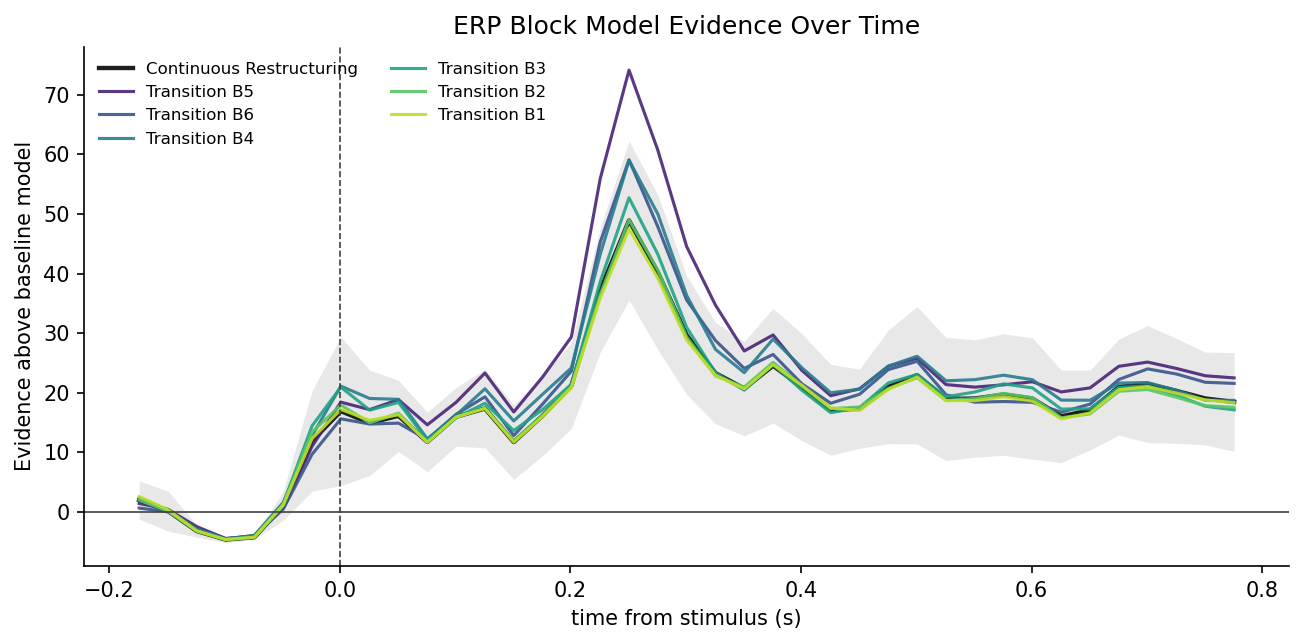
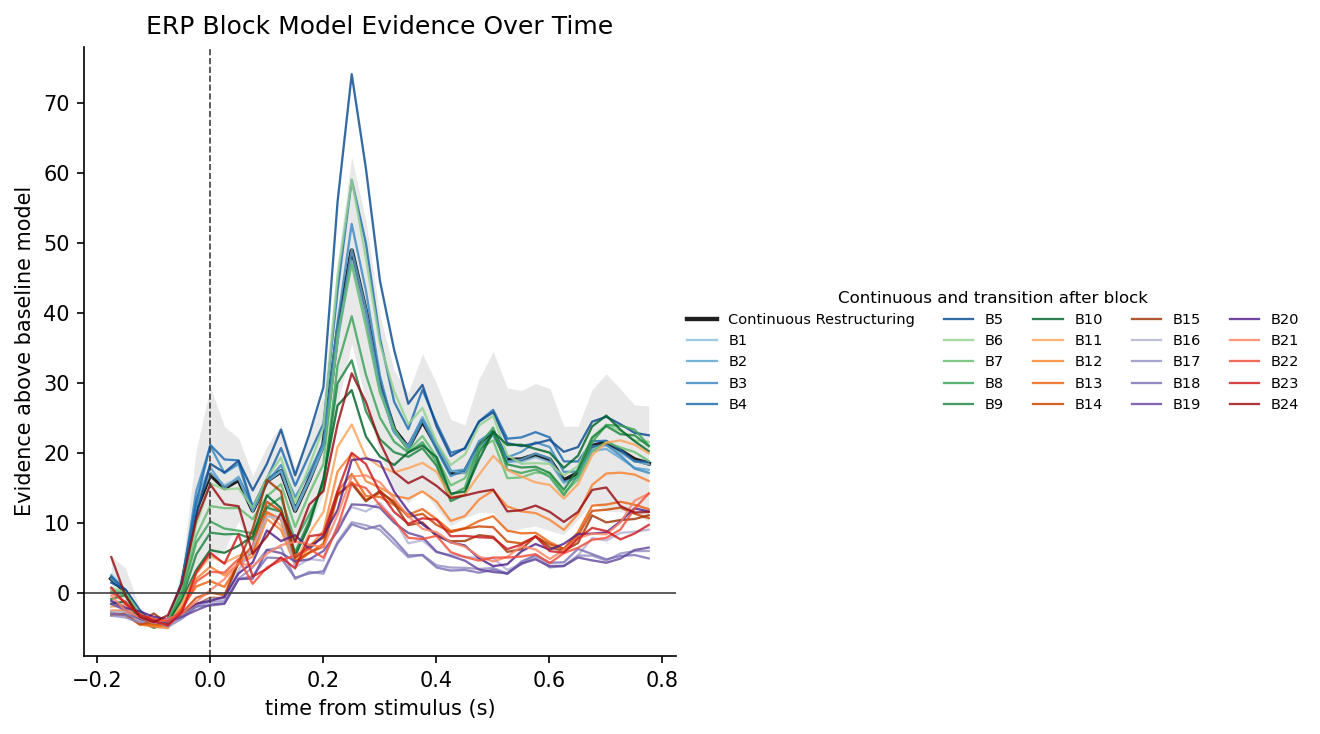
.

diff --git a/code/block_model_timecourse_figure.py b/code/block_model_timecourse_figure.py
@@ -54,13 +54,35 @@ def line_label(row):
     return label
 
 
+def split_block_day(split_block):
+    split_block = int(split_block)
+    return ((split_block - 1) // 5) + 1
+
+
+def split_block_color(split_block):
+    split_block = int(split_block)
+    day = split_block_day(split_block)
+    day_cmaps = {
+        1: plt.cm.Blues,
+        2: plt.cm.Greens,
+        3: plt.cm.Oranges,
+        4: plt.cm.Purples,
+        5: plt.cm.Reds,
+    }
+    day_start = (day - 1) * 5 + 1
+    day_end = min(day * 5, 24)
+    n_in_day = max(1, day_end - day_start + 1)
+    pos = (split_block - day_start) / max(1, n_in_day - 1)
+    return day_cmaps[day](0.42 + 0.48 * pos)
+
+
 def save_block_model_figure(modality, output_dir=OUTPUT_DIR, figures_dir=FIGURES_DIR):
     output_dir = Path(output_dir)
     figures_dir = Path(figures_dir)
     figures_dir.mkdir(parents=True, exist_ok=True)
     spec = MODALITIES[modality]
     d = require_csv(output_dir / spec["summary"])
-    fig, ax = plt.subplots(figsize=(8.8, 4.4))
+    fig, ax = plt.subplots(figsize=(11.2, 5.0))
     continuous = d[d["model_label"] == "Continuous Restructuring"].sort_values("time_sec")
     if not continuous.empty:
         x = continuous["time_sec"].to_numpy(float)
@@ -74,27 +96,40 @@ def save_block_model_figure(modality, output_dir=OUTPUT_DIR, figures_dir=FIGURES
     split_rows = d[d["model"] == "discrete"].copy()
     split_rows = split_rows[np.isfinite(split_rows["split_block"].astype(float))]
     if not split_rows.empty:
-        best = (
-            split_rows.groupby("split_block", as_index=False)
-            .agg(best_evidence=("delta_bic_baseline_mean", lambda x: float(np.nanmax(-np.asarray(x, dtype=float)))))
-            .sort_values("best_evidence", ascending=False)
-            .head(6)
-        )
-        colors = plt.cm.viridis(np.linspace(0.10, 0.90, len(best)))
-        for color, split_block in zip(colors, best["split_block"].tolist()):
+        split_blocks = sorted(split_rows["split_block"].astype(float).dropna().unique())
+        for split_block in split_blocks:
             g = split_rows[np.isclose(split_rows["split_block"].astype(float), float(split_block))].sort_values("time_sec")
             x = g["time_sec"].to_numpy(float)
             y = -g["delta_bic_baseline_mean"].to_numpy(float)
-            ax.plot(x, y, color=color, linewidth=1.5, alpha=0.9, label=f"Transition B{int(split_block)}")
+            ax.plot(
+                x,
+                y,
+                color=split_block_color(split_block),
+                linewidth=1.1,
+                alpha=0.82,
+                label=f"B{int(split_block)}",
+            )
 
     ax.axhline(0.0, color="0.25", linewidth=0.8)
     ax.axvline(0.0, color="0.25", linewidth=0.8, linestyle="--")
     ax.set_xlabel("time from stimulus (s)")
     ax.set_ylabel("Evidence above baseline model")
     ax.set_title(spec["title"])
-    ax.legend(frameon=False, fontsize=8, ncol=2, loc="upper left")
+    handles, labels = ax.get_legend_handles_labels()
+    ax.legend(
+        handles,
+        labels,
+        title="Continuous and transition after block",
+        frameon=False,
+        fontsize=7,
+        title_fontsize=8,
+        ncol=5,
+        loc="center left",
+        bbox_to_anchor=(1.01, 0.5),
+        borderaxespad=0.0,
+    )
     setup_axis(ax)
-    fig.tight_layout()
+    fig.tight_layout(rect=[0.0, 0.0, 0.80, 1.0])
     path = figures_dir / spec["figure"]
     fig.savefig(path, dpi=150, bbox_inches="tight")
     plt.close(fig)
